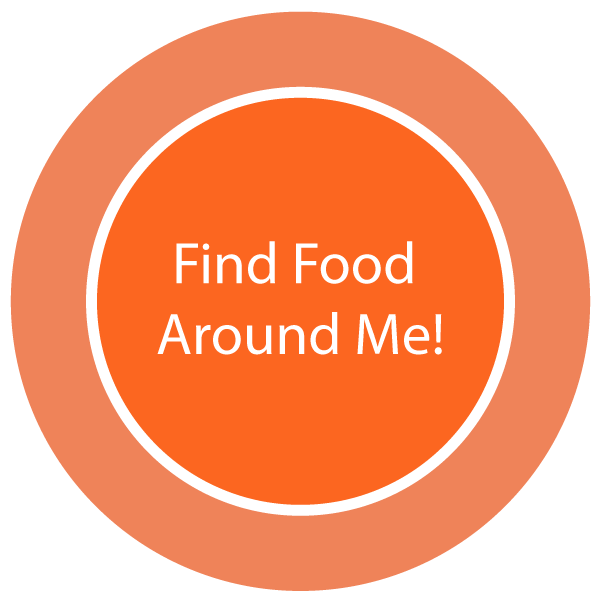
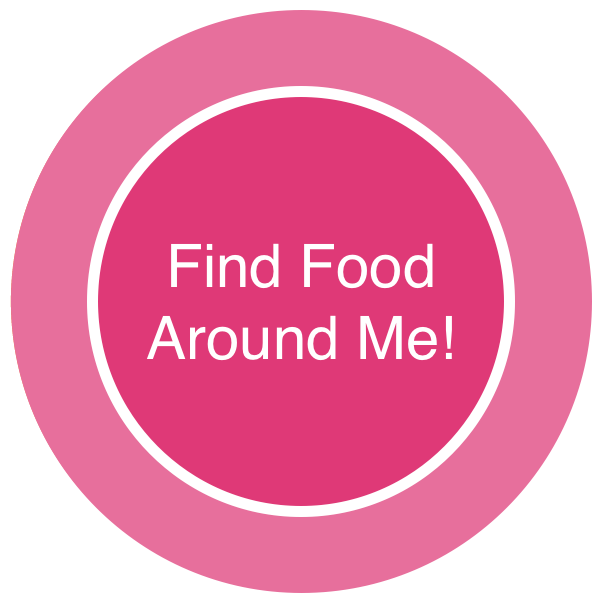
update charity login

diff --git a/charity_login.html b/charity_login.html
@@ -19,6 +19,7 @@
      -o-background-size: cover;
      background-size: cover;
      position: relative;
+     opacity:.9;
    }
 
    .topnav {
@@ -94,7 +95,7 @@
     float:right;
     left:-200px;
     top:50px;
-    opacity:.90;
+    opacity:.85;
 
     display: inline-block;
     cursor: pointer;
@@ -143,7 +144,7 @@
           Number of charities helped: 102
         </p>
 
-        <img src="assets/history.png" class="history" style="PADDING-LEFT:100px; width:500px; height:200px">
+        <img src="assets/charity_history.png" class="history" style="PADDING-LEFT:100px; width:500px; height:200px">
         
         
         <a href="#"><p style="PADDING-LEFT: 385px; color:black;display:inline"> Show all history </p></a>
@@ -153,7 +154,7 @@
       <!-- RIGTH COLUMN-->
       <div class="ui-block-b">
 
-        <a href="main.html"> <img src="assets/findfoodnearme.png" class="buttonfindfood"></a>
+        <a href="main.html"> <img src="assets/findfoodnearme3.png" class="buttonfindfood"></a>
 
         <!-- serving button and text -->
         <div style="float:left; PADDING-LEFT:50px; PADDING-TOP:50px">

diff --git a/provider_login.html b/provider_login.html
@@ -160,7 +160,7 @@
           Number of charities helped: 5
         </p>
 
-        <img src="assets/history.png" style="PADDING-LEFT:100px; width:500px; height:200px">
+        <img src="assets/provider_history.png" style="PADDING-LEFT:100px; width:500px; height:200px">
         
         
         <a href="#"><p style="PADDING-LEFT: 385px; color:white; display:inline"> Show all history </p></a>
